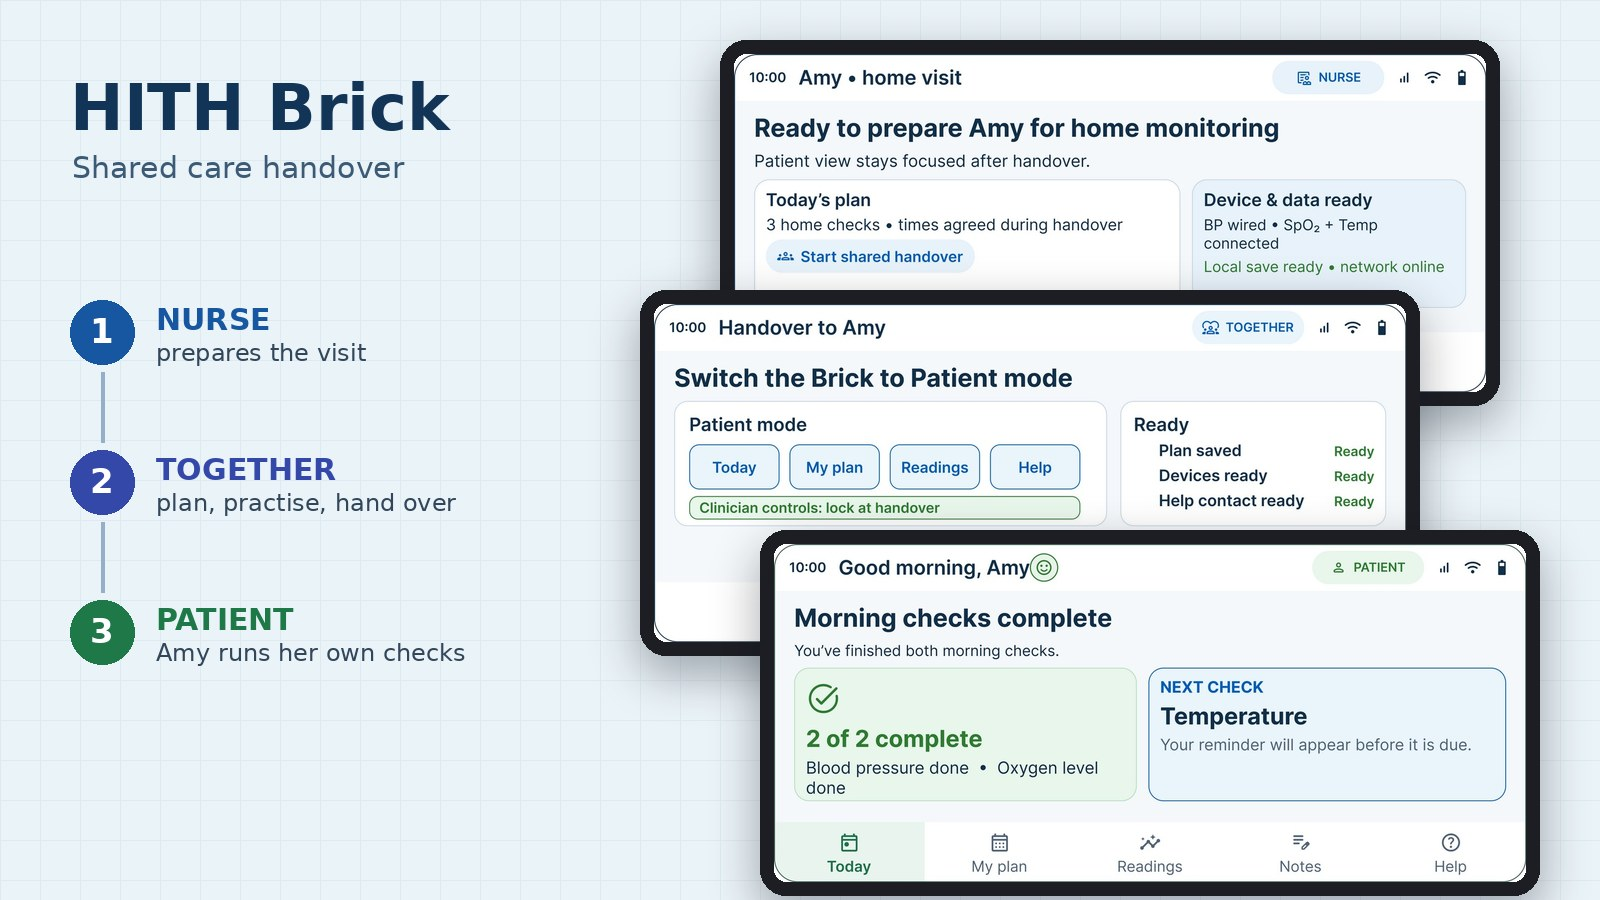
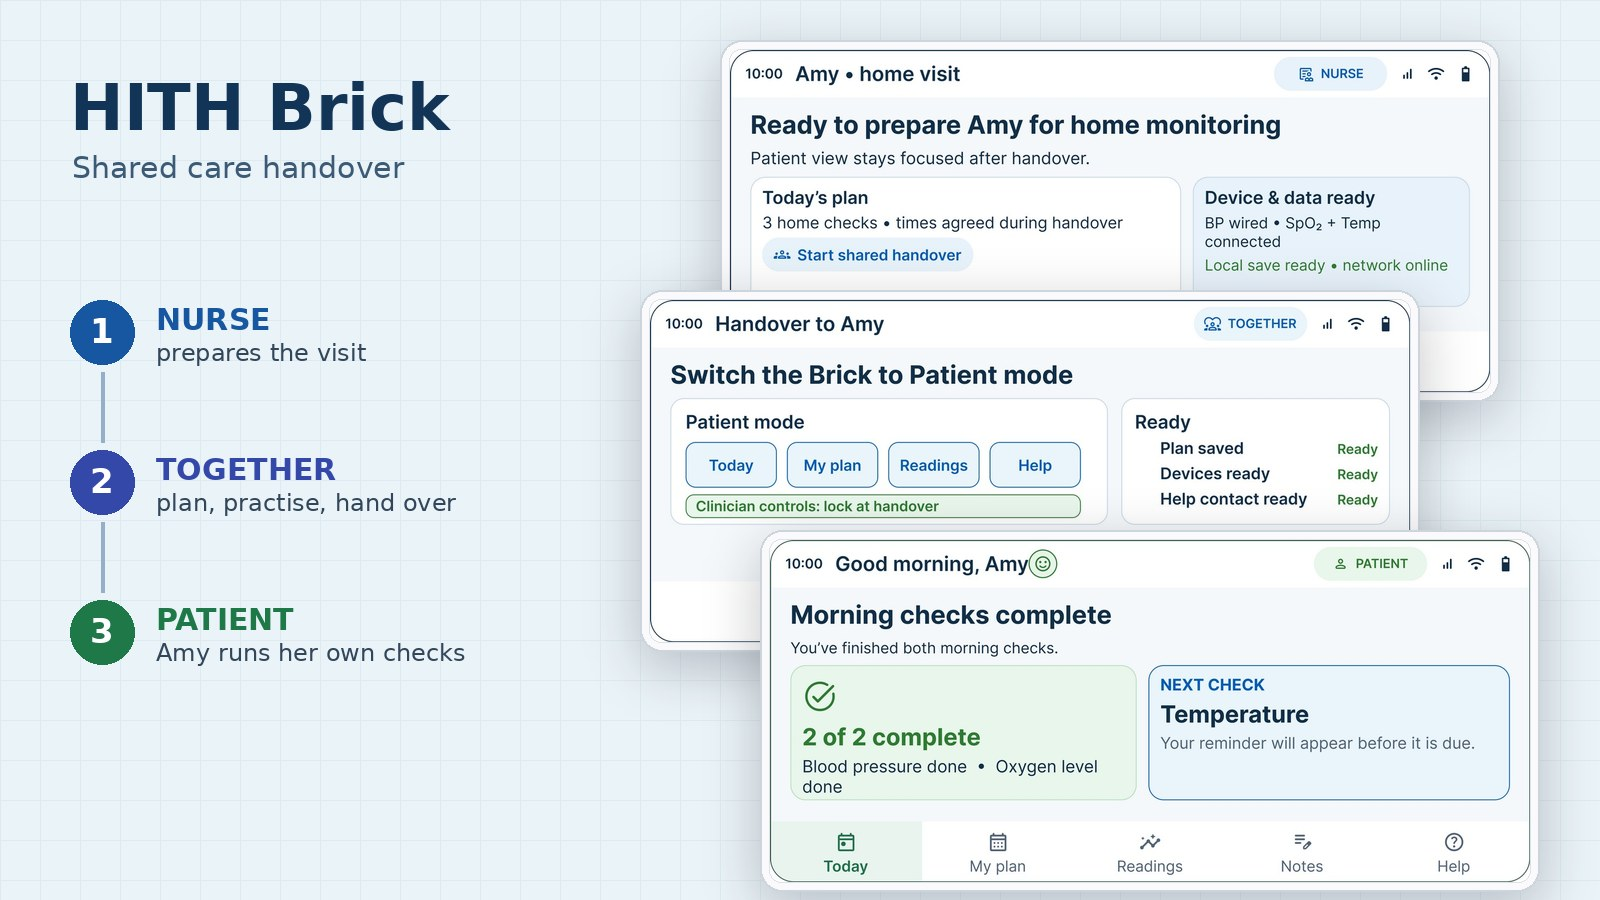
Lighter covers, frameless work images, clearer 3D room
- HITH Brick and ShopMirror covers use thin light device frames instead of black bezels
- Covers in Selected work have no black frame
- What We Carry described as my own new game about my room, tied to A1 and A3
- The Next Chapter: the first version I built for A3 as main coder, still being revised
- 3D room renders sharper; mode tabs sit above it and controls below so nothing covers the model

Changed region(s): [[0.375, 0.0311, 0.9688, 1.0]]

diff --git a/js/content.js b/js/content.js
@@ -54,11 +54,11 @@ const WORKS = [
   {
     id: 'my-room', title: 'What We Carry', unit: 'KKB385 · Individual project', year: '2026',
     skills: ['Creative Coding & Interactive Prototyping', 'Three.js / Web 3D', 'Concept Development & Framing', 'Visual Storytelling'], accent: '#e9c46a',
-    role: 'Solo', kind: 'Interactive web & 3D study', cover: 'myRoom', image: 'assets/work/my-room-cover.png', pixel: true,
+    role: 'Solo · my own new game', kind: 'Personal game · web & 3D', cover: 'myRoom', image: 'assets/work/my-room-cover.png', pixel: true,
     play: [{ label: 'My Room', href: 'room/', ratio: '16/9' }],
-    summary: 'The Next Chapter: What We Carry. An individual interactive web and 3D prototyping study.',
+    summary: 'A new personal game I created, about my own room, connected to my A1 and A3 work.',
     body: [
-      'Developed after our A3 team discussions about one room evolving across life stages and the objects that recur, disappear or change meaning. It is an interactive game based on my current room. The objects in the room reflect my real life, including my experiences, interests and things that are personally meaningful to me. Players can explore the room and interact with different objects to learn more about me. It connects to our A3 group project through the idea of meaningful objects.',
+      'What We Carry is a new little game I created on my own. Its subject is my own room, and it grows out of my A1 and our A3: it was developed after our A3 team discussions about one room evolving across life stages and the objects that recur, disappear or change meaning, and it carries on the keep-or-remove question from my A1. It is an interactive game based on my current room. The objects in the room reflect my real life, including my experiences, interests and things that are personally meaningful to me. Players can explore the room and interact with different objects to learn more about me. It connects to our A3 group project through the idea of meaningful objects.',
       'For references I compared room games through presentation, colour and style. Unpacking and Whisper of the House show how a desk, books and keepsakes can carry someone\'s interests. A Storied Life: Tabitha was useful for a quieter memory theme and short descriptions of meaningful objects.',
       'One of my two-year goals is to expand creative coding into interactive 3D web experiences. The first step was a small Three.js scene for What We Carry: the floating room on the homepage. It builds on my p5.js foundation and is documented as research and precedents, interaction flow, prototype, testing, iteration and final playable outcome.'
     ],
@@ -89,7 +89,7 @@ const WORKS = [
     ],
     summary: 'One room, from nursery to moving out: what we keep up, carry on, and leave behind.',
     body: [
-      'An interactive game display about upkeep. The visitor looks after one bedroom across six chapters of a girl\'s life, unpacking, tidying and deciding what to carry into the next chapter. The first build here is fully pixel art; the exhibition build that followed moved to an early-2000s desktop look.',
+      'An interactive game display about upkeep. The visitor looks after one bedroom across six chapters of a girl\'s life, unpacking, tidying and deciding what to carry into the next chapter. The first version shown here is one I built for our A3 as the main coder. It is fully pixel art, and the game will keep changing as we revise it; the exhibition build that followed moved to an early-2000s desktop look.',
       'Our team uses a studio-role model with collaborative co-authorship: I am main coder; Chloee Park leads design and supports coding; Isabella Kiosses leads documentation and film; Lyebin Cho leads film and photo. Decisions are discussed collectively, while role holders make specialist calls; as primary coder, I make final technical decisions.',
       'I can claim the core interaction system, player input/state logic, asset integration, technical problem-solving and testing, while crediting teammates for visual and film contributions. The exhibition develops reliable interactive systems because it must run repeatedly on a public computer and withstand real visitor use.'
     ],

diff --git a/index.html b/index.html
@@ -12,7 +12,7 @@
 <link rel="preconnect" href="https://fonts.googleapis.com">
 <link rel="preconnect" href="https://fonts.gstatic.com" crossorigin>
 <link href="https://fonts.googleapis.com/css2?family=Pixelify+Sans:wght@400..700&family=VT323&family=DotGothic16&display=swap" rel="stylesheet">
-<link rel="stylesheet" href="css/site.css?v=20261016l">
+<link rel="stylesheet" href="css/site.css?v=20261016m">
 </head>
 <body>
 
@@ -86,7 +86,7 @@
       <p class="kicker">Current project</p>
       <h2>What We Carry</h2>
       <p>My room as a small Three.js scene. Drag to look at it from any side, above or below, and click the objects to find out what they mean to me.</p>
-      <p class="sub">An individual interactive web and 3D prototyping study, developed from our A3 team discussions about the objects that recur, disappear or change meaning across life stages.</p>
+      <p class="sub">A new personal game I created about my own room. It connects to my A1 and to our A3, The Next Chapter: the objects we keep, lose or carry into the next room.</p>
       <p class="btns"><button class="btn" type="button" id="carry-read">Read the project ▸</button><a class="btn ghost" href="room/" target="_blank" rel="noopener">Play the room ↗</a></p>
     </div>
     <div class="island-wrap" data-reveal>
@@ -120,6 +120,7 @@
         <button type="button" data-reset aria-label="Back to the start view">⟲</button>
         <span class="lbl">drag to look around · pinch to zoom</span>
       </div>
+      
       <p class="island-fallback" hidden>The 3D room needs WebGL. The pixel room above has everything in it.</p>
     </div>
   </section>
@@ -177,16 +178,16 @@
   </div>
 </div>
 
-<script src="js/pixel-art.js?v=20261016l"></script>
-<script src="js/room-engine.js?v=20261016l" data-root="./"></script>
-<script src="js/content.js?v=20261016l"></script>
-<script src="js/story.js?v=20261016l"></script>
-<script src="js/covers.js?v=20261016l"></script>
-<script src="js/fx.js?v=20261016l"></script>
-<script src="js/music.js?v=20261016l"></script>
-<script src="js/home.js?v=20261016l"></script>
+<script src="js/pixel-art.js?v=20261016m"></script>
+<script src="js/room-engine.js?v=20261016m" data-root="./"></script>
+<script src="js/content.js?v=20261016m"></script>
+<script src="js/story.js?v=20261016m"></script>
+<script src="js/covers.js?v=20261016m"></script>
+<script src="js/fx.js?v=20261016m"></script>
+<script src="js/music.js?v=20261016m"></script>
+<script src="js/home.js?v=20261016m"></script>
 <script type="module">
-import { createIsland } from './js/island.js?v=20261016l';
+import { createIsland } from './js/island.js?v=20261016m';
 window.mountIsland && window.mountIsland(createIsland);
 </script>
 </body>

diff --git a/room/index.html b/room/index.html
@@ -10,8 +10,8 @@
 <link rel="preconnect" href="https://fonts.googleapis.com">
 <link rel="preconnect" href="https://fonts.gstatic.com" crossorigin>
 <link href="https://fonts.googleapis.com/css2?family=Pixelify+Sans:wght@400..700&family=VT323&family=DotGothic16&display=swap" rel="stylesheet">
-<link rel="stylesheet" href="../css/site.css?v=20261016l">
-<link rel="stylesheet" href="../css/game.css?v=20261016l">
+<link rel="stylesheet" href="../css/site.css?v=20261016m">
+<link rel="stylesheet" href="../css/game.css?v=20261016m">
 </head>
 <body class="game">
 <div id="stage" aria-label="Cecelia's room"></div>
@@ -61,11 +61,11 @@
   </div>
 </div>
 
-<script src="../js/pixel-art.js?v=20261016l"></script>
-<script src="../js/room-engine.js?v=20261016l" data-root="../"></script>
-<script src="../js/content.js?v=20261016l"></script>
-<script src="../js/story.js?v=20261016l"></script>
-<script src="../js/covers.js?v=20261016l"></script>
-<script src="../js/game.js?v=20261016l"></script>
+<script src="../js/pixel-art.js?v=20261016m"></script>
+<script src="../js/room-engine.js?v=20261016m" data-root="../"></script>
+<script src="../js/content.js?v=20261016m"></script>
+<script src="../js/story.js?v=20261016m"></script>
+<script src="../js/covers.js?v=20261016m"></script>
+<script src="../js/game.js?v=20261016m"></script>
 </body>
 </html>

diff --git a/js/island.js b/js/island.js
@@ -9,7 +9,7 @@ const COL = {
 };
 
 export function createIsland(host, opts) {
-  opts = Object.assign({ onSelect: () => {}, onHover: () => {}, onCarry: () => {}, onFocus: () => {}, pixel: 3 }, opts || {});
+  opts = Object.assign({ onSelect: () => {}, onHover: () => {}, onCarry: () => {}, onFocus: () => {}, pixel: 2 }, opts || {});
   const reduced = matchMedia('(prefers-reduced-motion: reduce)').matches;
   const renderer = new THREE.WebGLRenderer({ antialias: false, alpha: true, powerPreference: 'low-power' });
   renderer.setPixelRatio(1);
@@ -367,7 +367,7 @@ export function createIsland(host, opts) {
   /* ---------- size: render small, scale up crisp ---------- */
   function size() {
     const r = host.getBoundingClientRect();
-    const pf = opts.pixel * (r.width < 520 ? .85 : 1);
+    const pf = opts.pixel * (r.width < 520 ? .8 : 1);
     const w = Math.max(80, Math.round(r.width / pf)), h = Math.max(80, Math.round(r.height / pf));
     renderer.setSize(w, h, false);
     const aspect = r.width / Math.max(1, r.height), view = r.width < 520 ? 17.5 : 15.5;

diff --git a/css/site.css b/css/site.css
@@ -742,3 +742,14 @@ main{overflow-x:clip}
 .carry-card .note{font-size:17px;color:var(--ink2);margin:0 0 14px}
 @media (max-width:640px){.island-modes button{font-size:13px;padding:5px 8px 7px}.island-panel{top:46px;font-size:12px}}
 .island-modes button,.island-panel,.carry-card{color:var(--ink)}
+
+/* ---------- round 12 ---------- */
+/* covers in Selected work sit without a black frame, like What We Carry and Echo Corridor */
+.u-cv,.wc-cv,.work .mcover{box-shadow:none!important;background:transparent}
+.u-cv img,.u-cv canvas,.wc-cv img,.wc-cv canvas{border-radius:2px}
+/* the 3D room: tabs and the mode panel above it, controls below it, so nothing covers the model */
+.island-wrap{aspect-ratio:auto;min-height:0;display:flex;flex-direction:column;align-items:center;gap:10px}
+.island-modes,.island-panel,.island-ui{position:relative;top:auto;left:auto;bottom:auto;transform:none;max-width:100%}
+#island{position:relative;inset:auto;width:100%;aspect-ratio:4/3}
+.island-panel{min-height:34px}
+@media (max-width:860px){#island{aspect-ratio:1/1}}
